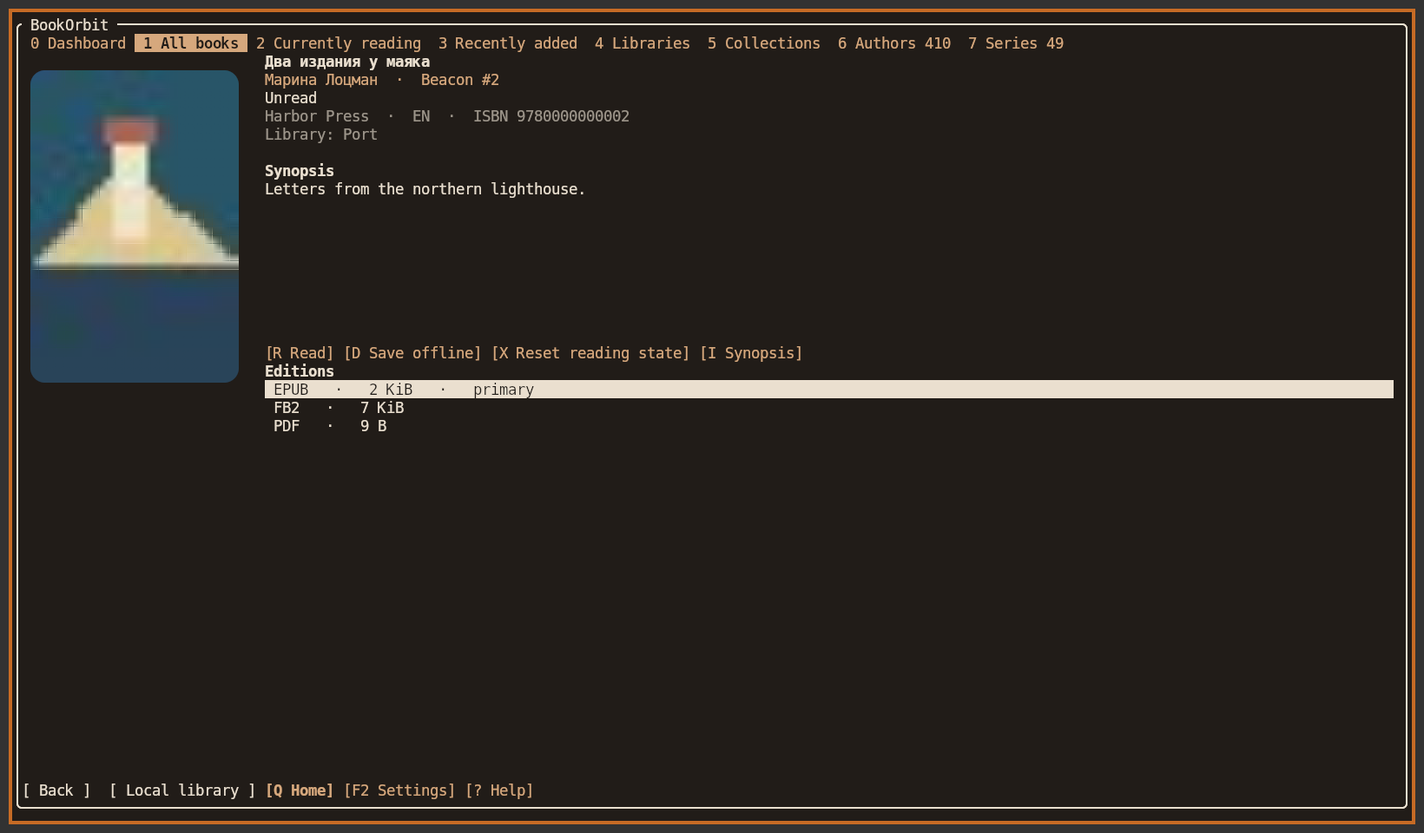
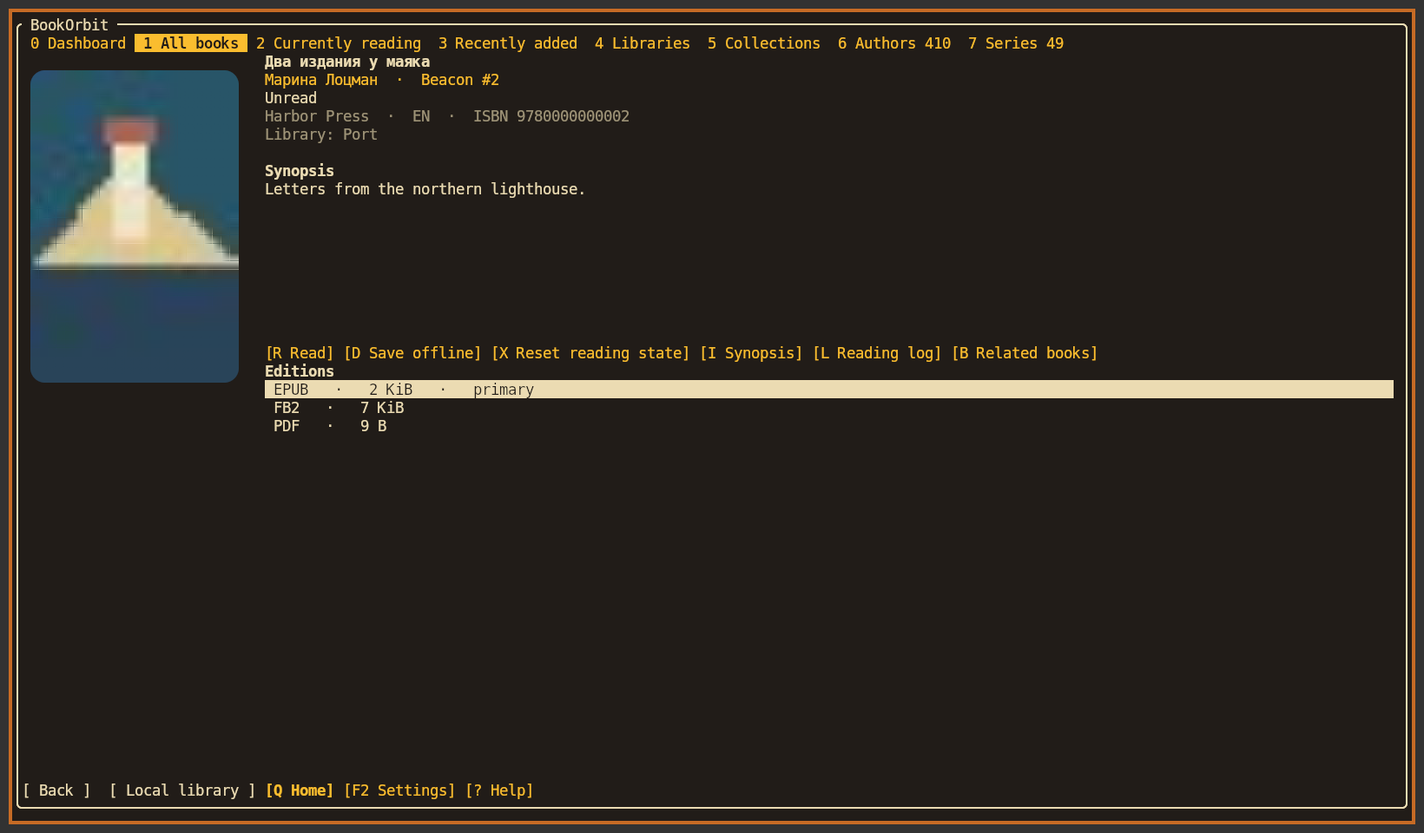
Document the library, PDF controls, footnote return paths and upstream audit

diff --git a/README.md b/README.md
@@ -53,6 +53,7 @@ botui                                      # choose a source
 botui --library "$HOME/Books"              # remember a local library folder
 botui --local                              # reopen the saved folder
 botui "./examples/first-light.fb2"         # open a file directly
+botui --resume                             # continue your last unfinished local book
 botui --server https://books.example.org   # BookOrbit installation root
 botui --opds https://books.example.org/opds
 botui --config-path                        # create or locate the config file
@@ -62,9 +63,11 @@ On the start screen, move the selection to see the description and controls for 
 
 ![Source chooser with its keyboard guide](docs/images/start.png)
 
-**F2** opens Settings: Appearance, Reader, Library, BookOrbit and Keys. **?** or **F1** goes straight to the shortcuts for the current screen. The footer shortcuts are clickable. **Q** closes the book, **Q** on the shelf returns to the source chooser, and **Q** there exits. **Esc** goes up one catalog level. When launched with a single file path, closing that file ends the command.
+**F2** opens Settings: Appearance, Reader, Library, BookOrbit, Keys and About. **?** or **F1** opens the shortcut guide for the current screen. Use **[ / ]** to switch groups or type **/** to find a key or command. The footer shortcuts are clickable. **Q** closes the book, **Q** on the shelf returns to the source chooser, and **Q** there exits. **Esc** goes up one catalog level. When launched with a single file path, closing that file ends the command.
 
-**Local library** uses your saved root, then `~/Books`, then the current directory. Click **P Folder…** to paste a path. **R Set library here** remembers the folder currently on screen. **/** searches file and folder names recursively. **2** opens reading history with percentages and **3** shows recent files by creation time, falling back to modification time.
+**Local library** uses your saved root, then `~/Books`, then the current directory. Click **P Folder…** to paste a path. **R Set library here** remembers the folder currently on screen. **/** searches subfolders in the background. It matches the path, plus the embedded title, author and series of EPUB and FB2 files; the filename may be just a number. **2** opens reading history with percentages and **3** shows recent files by creation time, falling back to modification time.
+
+In a wide terminal the left pane shows the folder tree, currently reading and recently added. Click a folder name to display its books on the right; click its arrow to fold or expand it. **F6** switches focus, **← / →** fold or expand, and **Enter** opens a folder. Drag the divider to resize it. Small windows keep the numbered tabs. [See the local library in Kitty](docs/images/local-library.png).
 
 ## BookOrbit
 
@@ -89,6 +92,8 @@ Before opening an edition, its card shows the author, series, synopsis, publishe
 
 See the [book details before reading](docs/images/book-details.png) and [navigation with the libraries folded](docs/images/navigation-folded.png).
 
+**L Reading log** opens sessions recorded by BookOrbit, with dates, devices, time and progress. **B Related books** opens the author or series. The local timer under **S** counts time in BOTUI on this device.
+
 **OPDS** accepts OPDS 1 Atom and OPDS 2 JSON. Browse navigation, groups and facets; choose an edition, search through an advertised template or OpenSearch, and download direct acquisitions. Use HTTPS for HTTP Basic accounts. Loan-only and DRM entries remain catalog information. Positions and notes are local.
 
 ## Reading
@@ -112,13 +117,19 @@ See the [book details before reading](docs/images/book-details.png) and [navigat
 
 Width and spacing are in terminal cells. Extra room sits outside the spread. A narrow window shows one page. Resize or adjust either value while reading to reflow both pages around the current text position. In scanned EPUB/FB2 text, botui can join printed line breaks and split words. Set `preserve_printed_lines = true` for editions where those breaks are intentional.
 
-For **PDF and DjVu**, choose **P Read pages** on the file card or **R Read** on the book card. **1 / 2 / 3** select one page, facing pages or scroll. Scrolling shows the end of one sheet and the start of the next together. The device remembers the offset within the sheet; BookOrbit stores a page number. **+ / −** zoom, **P** (or **Ctrl+G**) jumps straight to a page by number, **/** searches its text layer, **N** advances through matches, **B / G** manage bookmarks, and **I / A / E** manage and export page notes. There is no OCR step. **Z** hides the controls for the full window width. [A PDF at reading width in Kitty](docs/images/pdf-scroll.png).
+In EPUB and FB2, click an underlined reference or press **F6** to follow a link on the visible page. If several are visible, choose one. When you visit a note or glossary entry at the end of the book, **Esc** or **Back** restores your reading position; **Enter · Read here** makes an in-book destination your new reading position. Supplementary notes open over the current page. **I** still lists resources from the whole book.
+
+For **PDF and DjVu**, press **Enter** or click the edition to start reading. **1 / 2 / 3** select single page, spread or continuous scroll. At **100%**, a scrolling sheet fits the reading pane. Press **−** once for **90%**, again for **80%**, or **+** to enlarge it. **0** restores fit. **W** opens the same controls for the mouse; the chosen zoom is saved when you close the book. **Z** hides the contents and footer. **P** or **Ctrl+G** opens a small page-number dialog over the document. **/** searches the text layer; **F3 / F4 / F5** open the next match, previous match, or results. **B / G** manage bookmarks; **I / A / E** manage and export notes. Local resume remembers your position within a sheet; BookOrbit syncs the page number. Image-only scans have no searchable text without OCR. [PDF in Kitty](docs/images/pdf-scroll.png).
 
 Embedded raster illustrations appear in the text; **I** also opens the separate viewer. Tables adapt to the available width. Set **F2 → Reader → Illustrations** to viewer only if desired. **S** displays book statistics; **F2 → Library → Reading statistics** shows totals on this device.
+
+Across all four formats, **F3 / F4** move to the next / previous search result; **F5** reopens the list. EPUB/FB2 highlight the selected phrase. For scans the list shows page numbers and text excerpts; **, / .** retrace jumps. In **G Bookmarks**, press **Delete** on the selection or click **[×]** beside an entry, then confirm.
 
 ## Configuration
 
 Run `botui --config-path` to print the exact path. The default is `~/.config/botui/config.toml`. The same TOML file holds the library root, interface, reader bindings and BookOrbit account. The default UI language is English. See the [commented configuration](config.example.toml).
+
+On first launch the interface uses **Gruvbox Dark**; existing theme choices are preserved. **F2 → Reader → First-line indent** accepts 0–8 cells for the first line of prose (0 turns it off). Drag the right edge of the navigation or contents panel to resize it, or set the width in Settings. **F2 → Library → Download limit** sets the maximum size per edition for BookOrbit and OPDS: **4096 MiB** by default, **0** for unlimited. Downloads stream to disk. [Keyboard help](docs/images/help.png).
 
 **F2 → Appearance** sets the interface palette independently of the reading paper (**T**). Terminal uses the default foreground, background and ANSI slots, so changes to the emulator’s palette appear without restarting. Opaque paper follows the emulator’s OSC 11 response; if it cannot report RGB, botui uses ANSI black or your explicit `opaque_color`. Neither pywal nor matugen is required. Built-in themes include Gruvbox, Catppuccin, Nord, Dracula, Tokyo Night, Solarized, One Dark, Kanagawa, Rosé Pine and Everforest. A named palette stays fixed; transparency lets the window background show through. Set borders and jacket corners to Rounded, Square or None here.
 
@@ -126,13 +137,16 @@ Run `botui --config-path` to print the exact path. The default is `~/.config/bot
 
 ```toml
 library_root = "/path/to/books"
-interface_theme = "terminal"
+interface_theme = "gruvbox-dark"
 theme = "terminal"
 reading_layout = "auto"    # auto, single, spread, scroll
 borders = "rounded"        # rounded, square, none
 opaque_background = false
 page_width = 78
 column_gap = 4
+paragraph_indent = 0
+max_download_mib = 4096
+scan_zoom = 100
 
 [bookorbit]
 server = "https://books.example.org"
@@ -166,4 +180,8 @@ mise run smoke
 
 `check` runs rustfmt, Clippy and the workspace tests. `smoke` builds the debug binaries and exercises real terminal sessions with private tmux sockets, temporary configuration and loopback HTTP fixtures. It requires Python 3.11+, tmux, PDF and DjVu rendering support, and the DjVu fixture tools `c44` and `djvm`.
 
-The Rust workspace separates the BookOrbit and OPDS adapters, ebook parsing, text layout, fixed-page rendering, local storage and the terminal application. The repository also includes [architecture notes](docs/architecture.md) and the [verification checklist](docs/checklist.md), both in Russian.
+The Rust workspace separates the BookOrbit and OPDS adapters, ebook parsing, text layout, fixed-page rendering, local storage and the terminal application. The repository also includes [architecture notes](docs/architecture.md) and the [verification checklist](docs/checklist.md), both in Russian. [Upstream comparison and known gaps](docs/upstream-audit.md).
+
+## License
+
+Original BOTUI code is [GPL-3.0-or-later](LICENSE). The adapted BookOrbit cover artwork retains its [own license and notices](licenses/NOTICE.md). Open **F2 → About** in the app, or run **botui --license** for the full texts.

diff --git a/docs/architecture.md b/docs/architecture.md
@@ -23,7 +23,7 @@
 ## Путь открытия и позиции
 
 - У локального файла уже есть путь. Для BookOrbit полка получает временный файл по fileId, для OPDS — по выбранной acquisition-ссылке. Модель OPDS не знает ничего о маршрутах BookOrbit. Для неё идентификаторы строк и ссылки связывает адаптер в приложении. Обычное открытие создаёт временный файл. Команда Save offline переносит выбранное издание в постоянный каталог данных. У родного источника sidecar с исходным fileId, привязкой к аккаунту и позицией нужен для отложенного сравнения и записи; для OPDS такой обмен не выполняется.
-- Полка получает только видимые обложки: два фоновых задания, кэш LRU на 48 результатов, отдельный кэш на подключение. Флаг отсутствующей обложки пропускает запрос. При отсутствии картинки TUI создаёт собственный переплёт; это адаптация принципа [BookCoverPlaceholder из BookOrbit](https://github.com/bookorbit/bookorbit/blob/6ad1445dab35757164ed3bf31e83caeb6ba24ad2/client/src/features/book/components/BookCoverPlaceholder.vue), не загрузка SVG из веб-клиента. Сетка хранит прямоугольники реально нарисованных карточек для обработки мыши.
+- Полка получает только видимые обложки: два фоновых задания, кэш LRU на 48 результатов, отдельный кэш на подключение. Флаг отсутствующей обложки пропускает запрос. При отсутствии файла обложки нативная полка строит вариант стандартной Bauhaus-обложки по данным каталога (группа по серии или автору, мотив по названию); локальная и OPDS-полки используют свой переплёт. Шаблон описан в [BookCoverPlaceholder веб-клиента](https://github.com/bookorbit/bookorbit/blob/6ad1445dab35757164ed3bf31e83caeb6ba24ad2/client/src/features/book/components/BookCoverPlaceholder.vue). Сетка хранит прямоугольники реально нарисованных карточек для обработки мыши.
 - Текстовый пейджер сохраняет блок и байт нормализованного UTF-8, не экранный номер страницы. Отдельная карта сопоставляет показанные фрагменты со структурой XHTML, spine и исходными UTF-16-смещениями. EPUB использует однозначно совпавшие блоки; FB2 воспроизводит структуру основной прозы первого body в конвертере Foliate. Неподдержанные адреса, например сложное стихотворение или примечание, не подменяются соседним адресом. Текстовые закладки, заметки, поиск и издательское оглавление используют один и тот же локальный якорь. Проекция печатных строк склеивает текст только для показа, сохраняя адреса исходных блоков. Настройка preserve_printed_lines выключает это преобразование.
 - Native API читает запись конкретного fileId. Перед сохранением перечитывается исходная запись. Поле editedAt ограничивает запись версией, которую клиент видел при открытии; ответ superseded означает конфликт. Поддержка защиты зависит от серверного API. Изменение темы, ширины окна или режима страниц само по себе не двигает позицию. При ошибке или конфликте локальная копия остаётся. У OPDS нет неявной записи в BookOrbit.
 - PDF и DjVu проходят отдельный путь: номер физической страницы, подготовка растра в отменяемом процессе, ограниченный кэш текущего разворота и соседей. Декодер передаёт изображение тому же терминальному слою, который рисует обложки. Нужен только установленный движок соответствующего формата. Прямой Kitty проверен с настоящим пиксельным выводом; в tmux используется совместимый вариант. Неподдерживаемый формат не скрывается с полки.
@@ -37,8 +37,10 @@
 
 Ссылки и иллюстрации привязаны к исходному блоку. В книгах, состоящих из иллюстраций, локальные растровые пластины могут образовывать самостоятельные страницы. Формат разрешает ссылки в адрес того же документа, дополнительный XHTML сноски, двоичный ресурс внутри книги или URL веб-сайта. Текст, изображение или переход открываются по выбору из I; чтение не обращается к сайтам за изображениями. EPUB и FB2 используют один экран.
 
-Клиент OPDS понимает Atom и JSON, включая группы, фасеты и шаблоны поиска. В `formats` ссылки, изображения и таблицы привязаны к исходным блокам. `core` переносит текст и ставит иллюстрации в поток без изменения адресов BookOrbit. Текстовый режим Scroll перемещает верхнюю строку; для фиксированной страницы отдельный модуль режет растры двух соседних листов по видимой части. Локальное смещение скана отделено от серверного номера страницы.
+Клиент OPDS понимает Atom и JSON, включая группы, фасеты и шаблоны поиска. В `formats` ссылки, изображения и таблицы привязаны к исходным блокам. `core` переносит текст и ставит иллюстрации в поток без изменения адресов BookOrbit. Текстовый режим Scroll перемещает верхнюю строку; для фиксированной страницы отдельный модуль рассчитывает видимые части всех попадающих в окно листов и заранее загружает два следующих. Локальное смещение скана отделено от серверного номера страницы.
 
 Оформление терминала использует SGR по умолчанию и ANSI; только непрозрачная бумага требует актуального RGB через OSC 11. Именная палитра интерфейса независима от бумаги книги. Здесь нет привязки к pywal или matugen. У каталога собственное дерево с независимыми группами; карточка грузит метаданные в фоне, не сдвигая область клика по файлам. Смена статуса и сброс используют разные API и не подменяются записью произвольного процента.
 
 Сверено с [режимами Bookokrat](https://bugzmanov.github.io/bookokrat/index.html), [нативным API книг BookOrbit](https://github.com/bookorbit/bookorbit/blob/6ad1445dab35757164ed3bf31e83caeb6ba24ad2/server/src/modules/book/book.controller.ts), [транзакцией сброса](https://github.com/bookorbit/bookorbit/blob/6ad1445dab35757164ed3bf31e83caeb6ba24ad2/server/src/modules/reading-state/reading-state.repository.ts) и [спецификацией OPDS 2](https://specs.opds.io/opds-2.0.html). Границы совместимости и проверок — в [чеклисте](checklist.md).
+
+В локальной библиотеке дерево читает только непосредственные подпапки раскрытой ветки. Прямой переход по пути раскрывает его родителей. Поиск по всему корню — отдельная фоновая операция; перетаскивание границы отвечает только за геометрию обеих панелей.

diff --git a/docs/upstream-audit.md b/docs/upstream-audit.md
@@ -1,0 +1,24 @@
+# Что BOTUI перенимает у Bookokrat и BookOrbit
+
+Сверка исходников 7 ноября 2026 года. BOTUI сохраняет один ридер для всех источников. Источник отвечает за каталог, получение файла и доступную серверную синхронизацию; расположение текста или скана вычисляет ридер.
+
+| Ориентир | Решение в BOTUI | Чем проверить |
+|---|---|---|
+| [Фоновая загрузка локальной библиотеки в Bookokrat](https://github.com/bugzmanov/bookokrat/blob/9c02ee3b3a0f86791b3917cb1a93436d92a8603e/src/book_manager.rs) | Папки доступны сразу. Поиск по корню читает название, авторов и серию в фоне; отменённый поиск не подменяет новую выдачу. Тяжёлые медиа не нужны для разбора метаданных. | smoke-library, тесты botui-formats |
+| [Поиск в тексте Bookokrat](https://github.com/bugzmanov/bookokrat/blob/9c02ee3b3a0f86791b3917cb1a93436d92a8603e/src/widget/text_reader/search.rs) | Находим фразу по тексту и затем подсвечиваем её после переноса строк. Адрес места отделён от размеров окна; переходы по ссылкам и поиск учитывают это. | smoke-text-search |
+| [Навигация по PDF в Bookokrat](https://github.com/bugzmanov/bookokrat/blob/9c02ee3b3a0f86791b3917cb1a93436d92a8603e/src/widget/pdf_reader/navigation.rs) | У сканов своя модель: физическая страница, доля прокрутки и горизонтальное положение. Можно перейти на номер, посмотреть результаты поиска и вернуться назад на прежнее место. В Kitty используем согласованный графический протокол, в tmux доступна отрисовка ячейками. | smoke-scroll, smoke-scan-controls, [окно перехода в Kitty](images/pdf-page-dialog.png) |
+| [Журнал чтения в BookOrbit](https://github.com/bookorbit/bookorbit/blob/6ad1445dab35757164ed3bf31e83caeb6ba24ad2/server/src/modules/reading-session/book-reading-session.controller.ts) | Карточка книги читает серверный журнал (L) и предлагает связанные книги (B). Открытие карточки само по себе не начинает чтение. Статистика локальной сессии и серверный журнал различаются. | smoke-details |
+| [Серверные закладки BookOrbit](https://github.com/bookorbit/bookorbit/blob/6ad1445dab35757164ed3bf31e83caeb6ba24ad2/server/src/modules/bookmark/bookmark.service.ts) | Храним идентификатор конкретной закладки отдельно от её координат. Два маркера на одном месте можно удалить по отдельности; отказ сервера не выбрасывает запись из списка. | smoke-bookorbit-bookmarks |
+| [Обложка без файла в веб-клиенте](https://github.com/bookorbit/bookorbit/blob/6ad1445dab35757164ed3bf31e83caeb6ba24ad2/client/src/features/book/components/BookCoverPlaceholder.vue) | У веб-клиента есть собственное оформление при отсутствии картинки. Поэтому ответ «нет миниатюры» сам по себе не означает, что пользователь видел пустую обложку. Для стандартного оформления Bauhaus BOTUI использует книжные метаданные. | Тест обложки книги №1138; сравнение карточек в Kitty и веб-клиенте |
+
+[Справка Bookokrat](https://github.com/bugzmanov/bookokrat/blob/9c02ee3b3a0f86791b3917cb1a93436d92a8603e/src/widget/help_popup.rs) превращает большой список команд в отдельный доступный для поиска экран. В BOTUI разделы строятся из собственных команд с учётом открытого ридера; оформление работает и на узкой сетке терминала.
+
+В EPUB отдельно проверен случай, когда примечание находится в конце книги и открытие последней главы не означает завершения чтения. Временный переход хранит исходный адрес текста: возврат, изменение размеров и выход из книги не подменяют его адресом словаря.
+
+## Открытые различия
+
+- Для нативных заглушек реализован Bauhaus; альтернативные стили веб-профиля пока не импортируются.
+- Для PDF и DjVu поиск указывает лист с фрагментом текста. OCR и подсветка отдельных глифов на скане не реализованы.
+- Заметки привязаны к месту чтения. Произвольное выделение диапазона текста и обмен такими выделениями с веб-клиентом — отдельная функция.
+- Парсер EPUB/FB2 показывает текст, таблицы, ссылки и растровые иллюстрации. Он не является браузерным движком для полного CSS, MathML или воспроизведения аудио и видео.
+- Нет оснований считать любой локальный адрес взаимозаменяемым с CFI или координатами другого издания. Сквозной тест веб → физический iPhone → BOTUI для того же файла остаётся открытым.

diff --git a/docs/checklist.md b/docs/checklist.md
@@ -24,6 +24,15 @@
 | Открыть 137-й лист напрямую, найти текст на 137-м и 139-м, увидеть границу со 138-м на всю ширину | Release в Kitty, тестовый PDF на 140 листов; [вид границы страниц](images/pdf-scroll.png) |
 | Вернуться Q/Q к выбору источника после сохранения, открыть без повторного входа | smoke-progress |
 | Сменить палитру в работающем терминале в отсутствие pywal, сравнить реальные цвета фона | Изолированные Kitty и Alacritty |
+| Найти фразу после переноса; перейти по результатам, оглавлению и якорям | smoke-text-search, тесты botui-core и botui-formats |
+| Прочитать серверный журнал и связанные книги; удалить отдельную закладку, включая недоступный адрес, отменить удаление | smoke-details, smoke-bookorbit-bookmarks |
+| Перетащить край панели на полке и в обоих ридерах, отменить Esc; открыть снова на том же месте | smoke-splitters |
+| Открыть PDF/DjVu щелчком по изданию, уменьшить лист со 100% до 90%, восстановить ширину и перейти на страницу маленьким диалогом | smoke-shelf, smoke-sources, smoke-scan-controls, отдельная проверка пикселей Kitty |
+| Скачать EPUB 790 МиБ через BookOrbit и OPDS без Content-Length, отменить зависшую передачу, повторить, сверить SHA-256 | scripts/check-downloads.py с пользовательским файлом через временные локальные HTTP-серверы |
+| Раскрыть дерево локальных папок и открыть книгу справа; свернуть, изменить ширину, вернуться к книге и к истории | smoke-local-navigation, отдельная проверка Local library в Kitty |
+| Щёлкнуть издательскую сноску [1] в «Знаке Единорога», открыть ту же ссылку через F6; вернуться Esc и издательской стрелкой ↩ к тому же тексту | реальный EPUB в изолированном профиле; smoke-resources также проверяет словарь, обратные ссылки и resize |
+| Перейти в справке к разделу или найти команду, сохраняя читаемые колонки при 42×14 | smoke-preferences |
+| Увидеть сведения об авторстве в About и открыть ссылку с мыши, получить полный текст лицензий без запуска UI | smoke-about |
 
 ## Границы проверок
 
